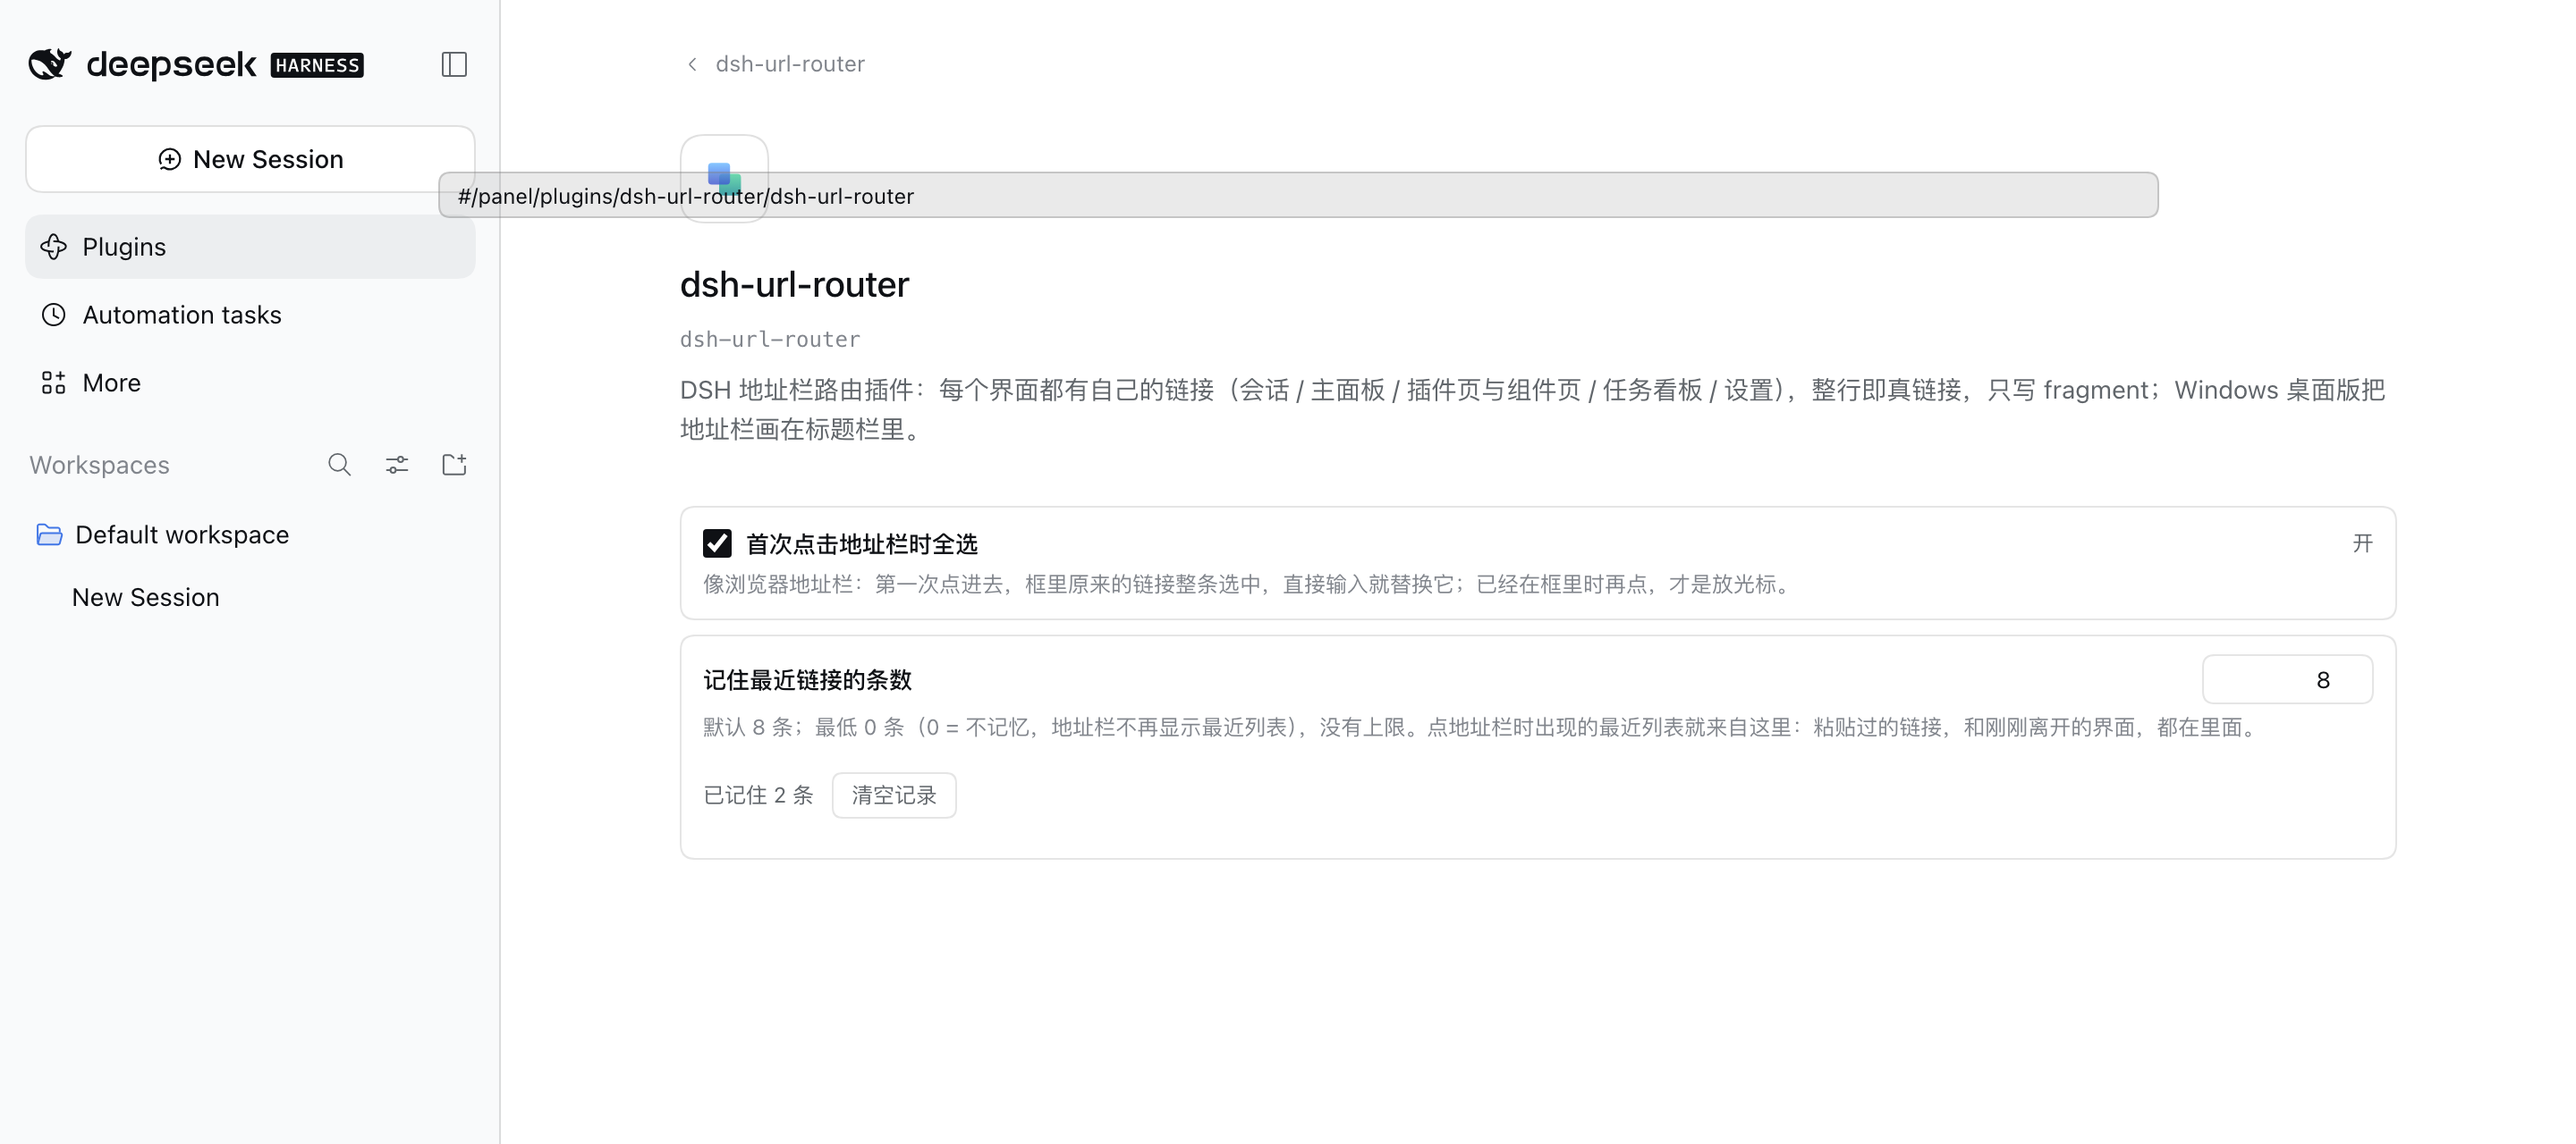
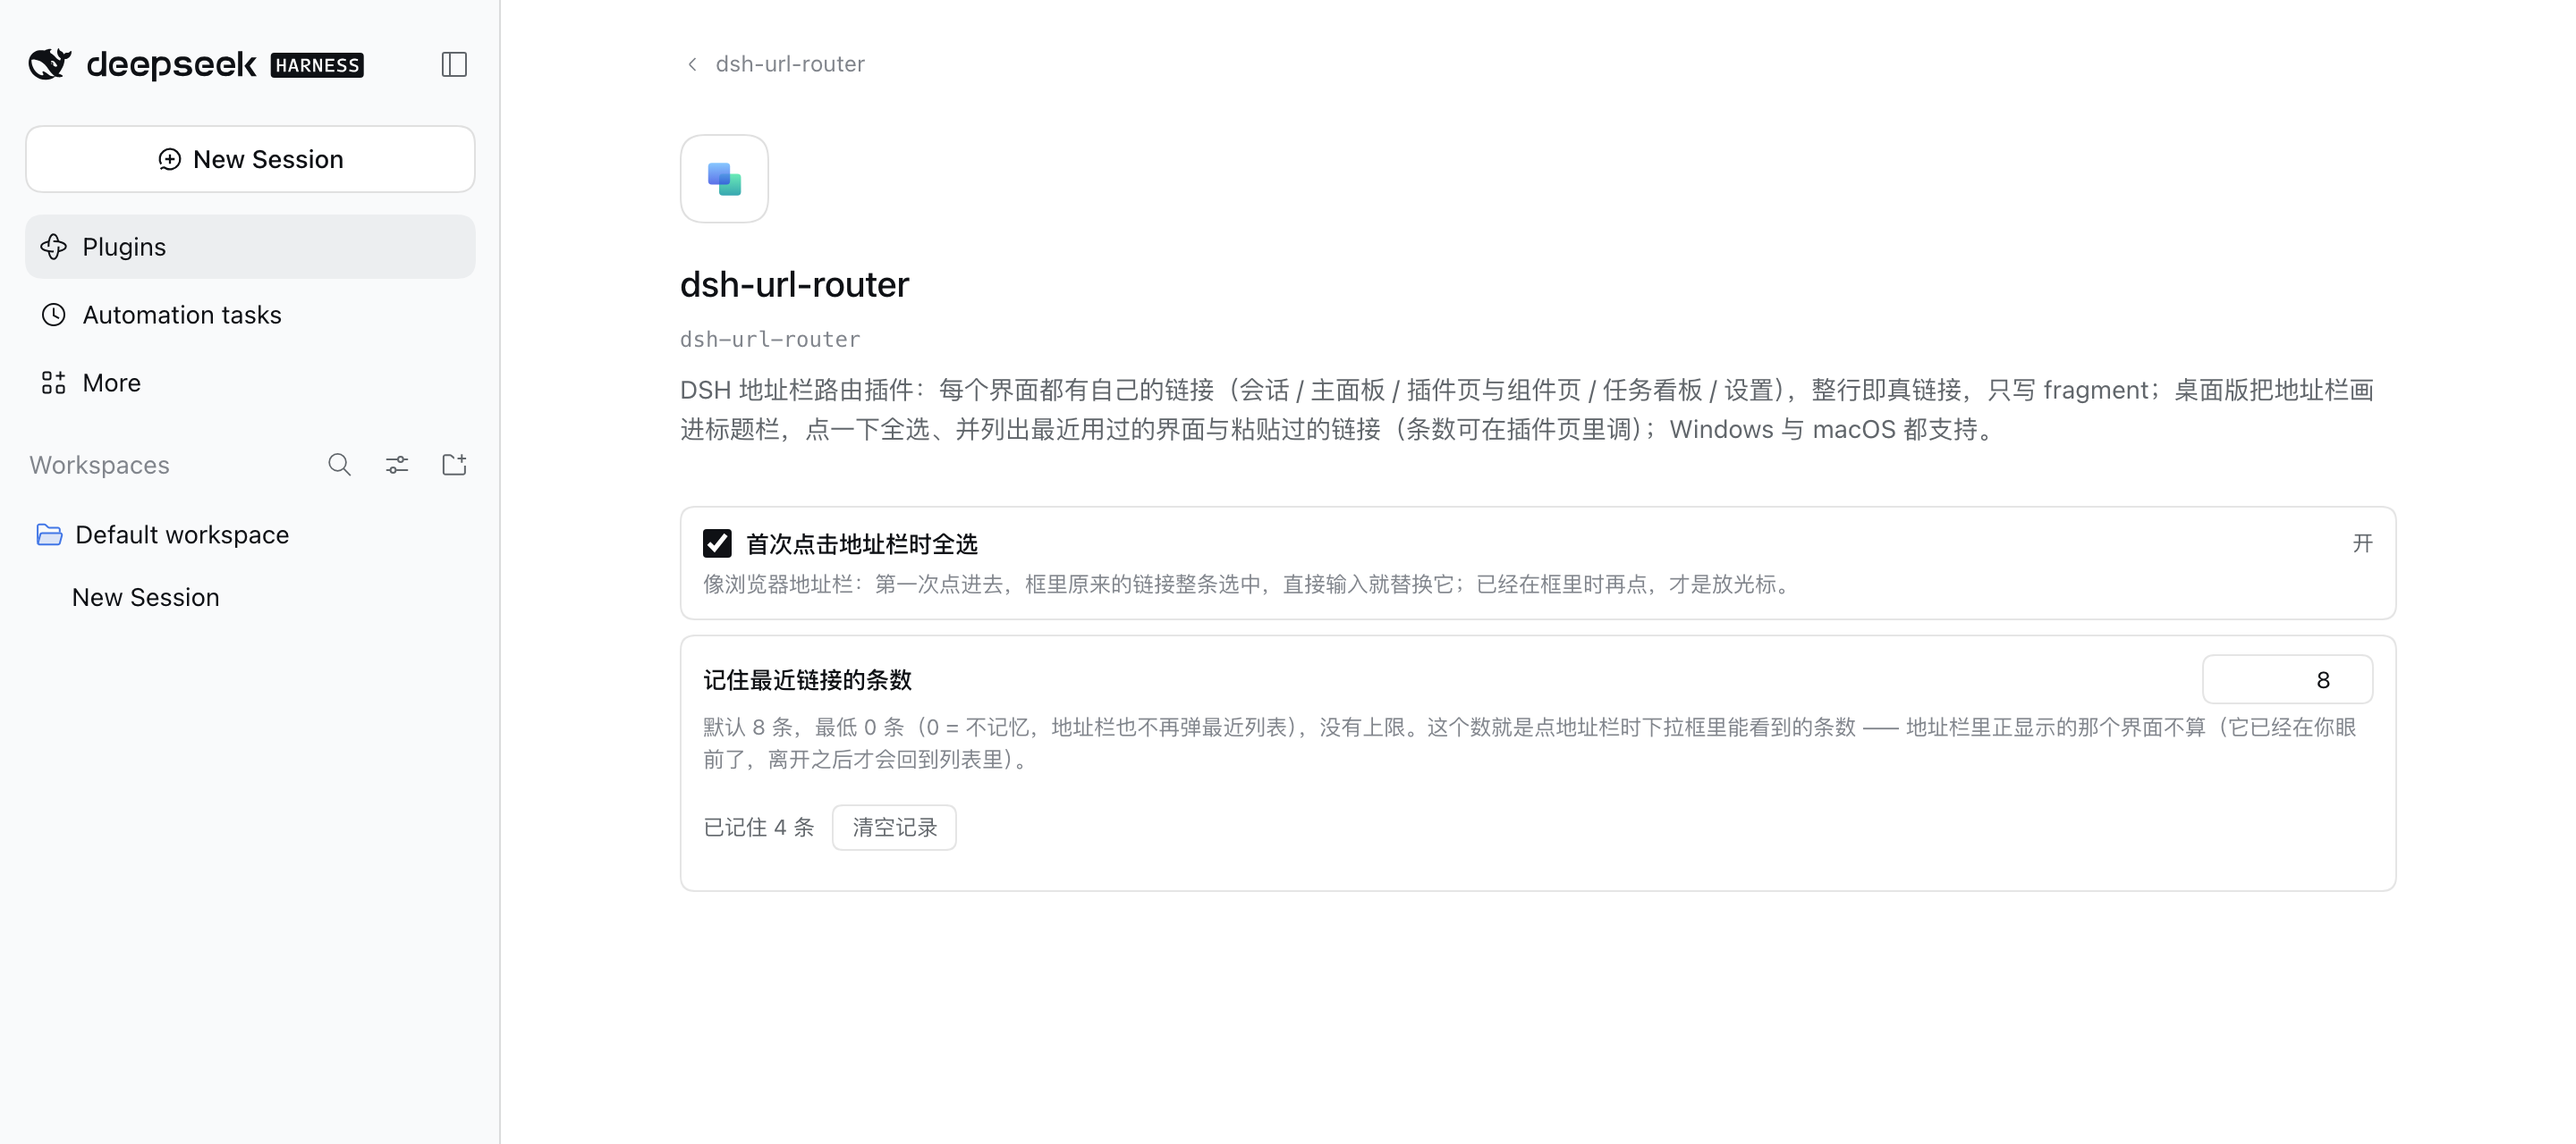
fix(bar): 条数按"下拉框里能看到的条数"算，当前界面不再占名额
用户实测反馈：设 8 只看到 7 条。原因是旧实现把"存储条数"当上限，
而当前界面也在存储里（又因为"当前屏幕不列出"被过滤掉），永远少一条。

- recentKeep() = limit + 1：磁盘多留一个缓冲位给当前屏幕
- recentEntries() 先排除当前屏幕，再取 limit ⇒ 设 8 就看得到 8 条
- recentEntries() 改为纯读（report() 调它，体检不得写盘）
- 设置卡提示与 README/AGENTS 同步这个语义
- 新用例：9 条记忆 + 计数 8 + 当前屏幕在其中 ⇒ 下拉正好 8 条、不含当前屏
- 真机探针复验：items=8 / stored=9 / remembered=8；计数 0 ⇒ 不弹列表

diff --git a/lib/client.js b/lib/client.js
@@ -542,32 +542,55 @@ window.__ModuleLoader__.load({
 		}
 
 		/**
+		 * The screen the address bar names right now.
+		 * @returns {string} the current fragment, or an empty string off a page.
+		 */
+		function currentScreenHash() {
+			return typeof window?.location?.hash === 'string' ? window.location.hash : ''
+		}
+
+		/**
+		 * How many entries are kept on disk.
+		 *
+		 * The count the reader sets is the number of links the drop-down offers — the screen in
+		 * the address bar is not one of them, because that is where the reader already is. That
+		 * screen is still remembered (leave it and it comes back in the list), so it may not eat
+		 * one of the slots: one spare slot covers it, since a screen has exactly one entry.
+		 * @returns {number} the entries to keep.
+		 */
+		function recentKeep() {
+			const limit = readSettings().recentLimit
+			return limit <= 0 ? 0 : limit + 1
+		}
+
+		/**
 		 * Keep the remembered links at the count in force, newest first.
 		 * @returns {Array<object>} the entries that are kept.
 		 */
 		function trimRecent() {
-			const limit = readSettings().recentLimit
+			const keep = recentKeep()
 			const stored = readRecent()
-			const kept = limit <= 0 ? [] : stored.slice(0, limit)
+			const kept = keep <= 0 ? [] : stored.slice(0, keep)
 			if (kept.length !== stored.length) writeRecent(kept)
 			return kept
 		}
 
 		/**
-		 * The remembered links to show, honouring the count in force.
-		 * @returns {Array<object>} the entries, newest first.
+		 * The remembered links the drop-down offers: the count in force, without the screen the
+		 * address bar already names, newest first.
+		 * @returns {Array<object>} the entries, in the order they are shown.
 		 */
 		function recentEntries() {
 			const limit = readSettings().recentLimit
 			// The memory is off: nothing is kept and nothing is shown.
 			if (limit <= 0) return []
+			const keep = recentKeep()
 			const stored = readRecent()
-			if (stored.length > limit) {
-				const kept = stored.slice(0, limit)
-				writeRecent(kept)
-				return kept
-			}
-			return stored
+			const kept = stored.length > keep ? stored.slice(0, keep) : stored
+			// Reading never writes: `report()` calls this and it must stay side-effect free.
+			// The disc is trimmed when a link is written and when the count changes.
+			const current = currentScreenHash()
+			return kept.filter(entry => entry.hash !== current).slice(0, limit)
 		}
 
 		/**
@@ -585,7 +608,7 @@ window.__ModuleLoader__.load({
 			const identity = recentIdentity(text)
 			const entries = readRecent().filter(entry => recentIdentity(entry.hash) !== identity)
 			entries.unshift({ hash: text, at: attemptValue(() => Date.now(), 0), source: source === 'paste' ? 'paste' : 'visit' })
-			writeRecent(entries.slice(0, limit))
+			writeRecent(entries.slice(0, recentKeep()))
 		}
 
 		/** Forget every remembered link. */
@@ -3151,9 +3174,9 @@ window.__ModuleLoader__.load({
 			 */
 			const drawRecent = () => {
 				const typed = narrowed ? String(input.value ?? '').trim().toLowerCase() : ''
+				// `recentEntries()` already leaves out the screen on display, so a remembered
+				// link is only narrowed here by what the reader typed.
 				const shown = recentEntries().filter(entry => {
-					// The screen on display is not a place to go back to.
-					if (entry.hash === window.location?.hash) return false
 					if (typed === '') return true
 					return `${entry.hash}\n${recentLabel(entry.hash)}`.toLowerCase().includes(typed)
 				})
@@ -3418,7 +3441,7 @@ window.__ModuleLoader__.load({
 							onBlur: () => setDraft(String(readSettings().recentLimit)),
 						}),
 					]),
-					h('p', { className: 'dshur-hint' }, '默认 8 条；最低 0 条（0 = 不记忆，地址栏不再显示最近列表），没有上限。点地址栏时出现的最近列表就来自这里：粘贴过的链接，和刚刚离开的界面，都在里面。'),
+					h('p', { className: 'dshur-hint' }, '默认 8 条，最低 0 条（0 = 不记忆，地址栏也不再弹最近列表），没有上限。这个数就是点地址栏时下拉框里能看到的条数 —— 地址栏里正显示的那个界面不算（它已经在你眼前了，离开之后才会回到列表里）。'),
 					h('p', { className: 'dshur-meta' }, [
 						h('span', { key: 'count' }, `已记住 ${remembered} 条`),
 						h('button', {

diff --git a/test/client.test.js b/test/client.test.js
@@ -2609,12 +2609,16 @@ test('the remembered count is a ceiling, and zero turns the memory off', () => {
     ])],
     ['dsh-url-router-settings', JSON.stringify({ recentLimit: 1 })],
   ])
-  const first = openWithTitlebar([], { menuWidth: 120, storage })
+  const first = openWithTitlebar(['session-abc', 'session-new'], { menuWidth: 120, storage })
   const firstBar = barOf(first.dom)
   firstBar.input.fire('focus', {})
-  // Then only the newest one is offered, and the rest are dropped from disk, not hidden
+  // Then only one link is offered: the count is what the drop-down shows
   assert.equal(firstBar.list.querySelectorAll('[data-dsh-url-router-recent-item]').length, 1)
-  assert.equal(JSON.parse(storage.get('dsh-url-router-recent')).length, 1)
+  // And the next remembered link trims the disc to the count plus the spare slot the screen
+  // on display needs, so the count is still exactly one link in the list
+  first.env.api.list('session-new')
+  first.env.api.view('session-new')
+  assert.equal(JSON.parse(storage.get('dsh-url-router-recent')).length, 2)
 
   // Given a machine where the count was turned to zero
   const off = new Map([['dsh-url-router-settings', JSON.stringify({ recentLimit: 0 })]])
@@ -2626,6 +2630,30 @@ test('the remembered count is a ceiling, and zero turns the memory off', () => {
   // Then nothing is remembered at all, and the bar offers no list
   assert.equal(off.has('dsh-url-router-recent'), false)
   assert.equal(secondBar.list.getAttribute('data-open'), null)
+})
+
+test('the count is the number of links the list offers, the screen on display not counting', () => {
+  // Given nine remembered screens and a count of eight, the newest being the screen the
+  // view is about to show
+  const ids = ['session-abc', 'session-b1', 'session-b2', 'session-b3', 'session-b4', 'session-b5', 'session-b6', 'session-b7', 'session-b8']
+  const storage = new Map([
+    ['dsh-url-router-recent', JSON.stringify(ids.map((id, index) => ({ hash: `#/session/${id}`, at: 100 - index, source: 'visit' })))],
+    ['dsh-url-router-settings', JSON.stringify({ recentLimit: 8 })],
+  ])
+  const { env, dom } = openWithTitlebar(ids, { menuWidth: 120, storage })
+  const { input, list } = barOf(dom)
+  env.api.list(...ids)
+  env.api.view('session-abc')
+  assert.equal(env.location.hash, '#/session/session-abc')
+  // When the bar is focused
+  input.fire('focus', {})
+  const items = list.querySelectorAll('[data-dsh-url-router-recent-item]')
+  // Then a full eight links are offered: the screen on display neither shows nor eats a slot
+  assert.equal(items.length, 8)
+  assert.equal(
+    items.some(item => item.getAttribute('data-dsh-url-router-recent-item') === '#/session/session-abc'),
+    false,
+  )
 })
 
 test('the plugin manager page gets a settings card under this row\'s key', () => {

diff --git a/AGENTS.md b/AGENTS.md
@@ -109,7 +109,7 @@
 - **首次点击全选** ✓：未聚焦时的 `mousedown` 里 `preventDefault` + `focus()` + `select()` ✓ —— 只 preventDefault 不 select 没用 ✓，只 select 不 preventDefault 也没用 ✓（按下落光标那条默认行为会把选区抹掉 ✓）。**已聚焦时再点必须是普通光标行为** ✓（否则拖选与定位全废 ✓）。`focus` 事件那条路也要选 ✓（Tab / 脚本聚焦 ✓）。
 - **当前链接不能当过滤词** ✗：框里平时就写着当前界面 ✓ —— 按 `input.value` 过滤会在聚焦瞬间把列表清空 ✓（踩过 ✓）。**只有读者真的编辑过（`input` 事件）才过滤** ✓（`narrowed` 标志 ✓）。
 - **最近列表的身份 = 界面** ✓，不是坐标 ✓：`recentIdentity()` 把 `turn` / `row` / `view` / `pane` / 面板内部页都归并到所在表面 ✓（`workspace` 形状取里面的会话 id ✓）。否则在一个对话里点几十行就把列表刷满 ✓。**当前屏幕不列出** ✓。
-- **条数**：默认 8 ✓、**0 = 关闭** ✓（不写盘 ✓、不弹列表 ✓）、**无上限** ✓（`normaliseSettings` 只做非负取整 ✓，别加"顺手"的上限 ✗）。调小要**立刻**裁掉 ✓（`trimRecent()` ✓），不能等下一次写入 ✓。
+- **条数 = 下拉框里能看到的条数** ✓，**当前屏幕不占名额** ✓（用户 2026-10-26 明确纠正过：按存储条数算会永远少一条 ✓）。做法：磁盘多留一个缓冲位（`recentKeep() = limit + 1` ✓，当前屏幕最多占一条 ✓），`recentEntries()` 先砍掉当前屏幕再取 `limit` ✓。默认 8 ✓、**0 = 关闭** ✓（不写盘 ✓、不弹列表 ✓）、**无上限** ✓（`normaliseSettings` 只做非负取整 ✓，别加"顺手"的上限 ✗）。调小要**立刻**裁掉 ✓（`trimRecent()` ✓），不能等下一次写入 ✓；**`recentEntries()` 纯读** ✓（`report()` 会调它 ✓，绝不能写盘 ✗）。
 - **粘贴先记，落地再记一次** ✓：`paste` 事件里只要 `titlebarFragmentOf()` 认得出就先记 ✓（已经在屏上的链接不会触发 `reflect` 写入 ✗，否则它永远记不上 ✓）。`visit` 记在 `publishRoute()` ✓ —— 那是"地址栏真的被写了"的唯一入口 ✓。
 - **假 DOM**：`input.select` / `input.focus` / `document.activeElement` / `removeChild` 全部可选调用或判型 ✓，假 DOM 已补齐这几个 ✓（`select()` 记次数、`focus()` 写 `activeElement` ✓）。
 - **设置页 = 插件管理器里那一行** ✓（不是独立的设置分区 ✓）：`ctx.slots.inject('plugins.row.config', …)` + `ctx.slots.register({name:'plugins.row.config', key: ROW_CONFIG_KEY}, Card)` ✓，`ROW_CONFIG_KEY = 'dsh-url-router#dsh-url-router'` ✓ —— 键的形状是 `<包名>#<row id>` ✓（官方 `rowConfigKey()` 实测 ✓），本插件包名与行 id 恰好同名 ✓，于是那个页面的 URL 正好是 `#/panel/plugins/dsh-url-router/dsh-url-router` ✓。
